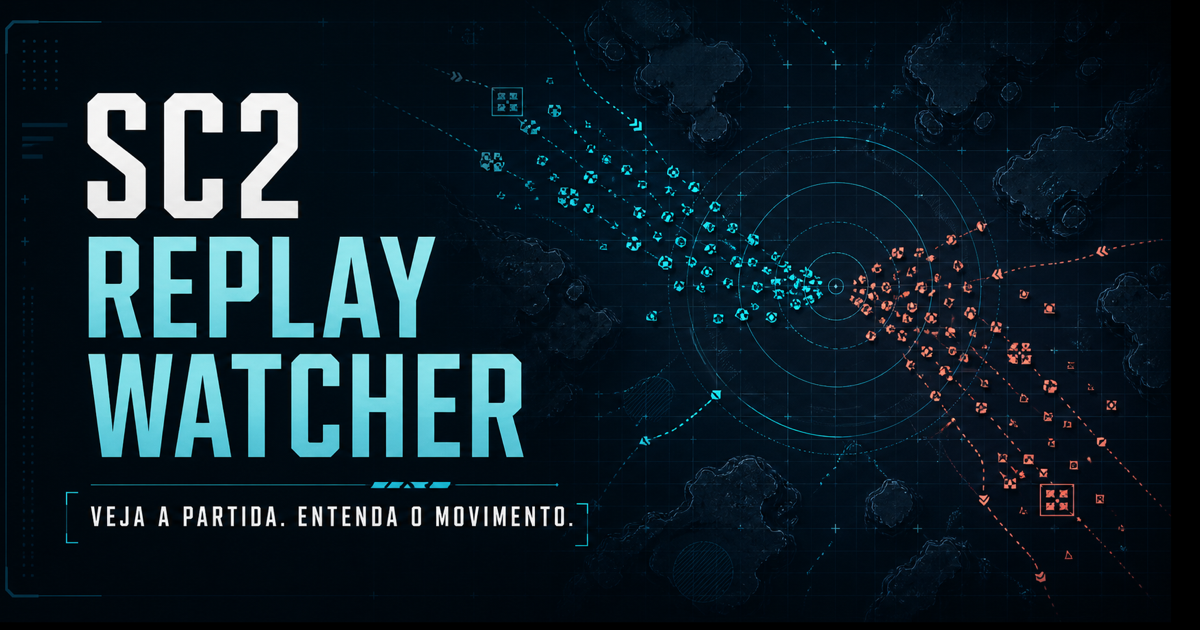
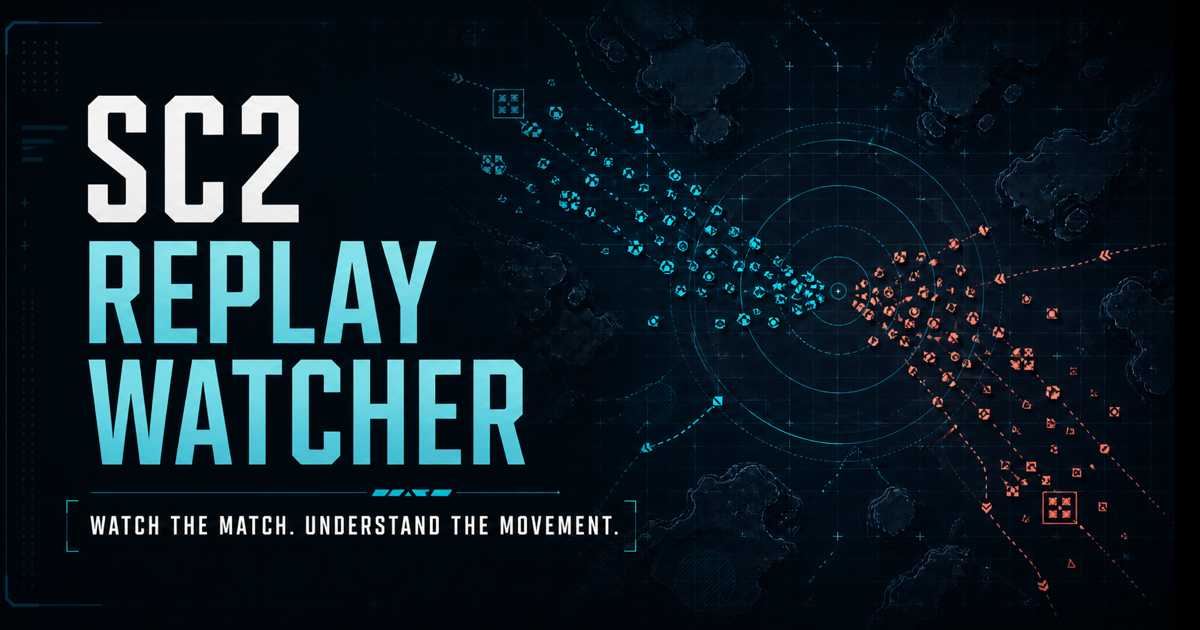
docs: standardize repository content in English

diff --git a/frontend/src/app/layout.tsx b/frontend/src/app/layout.tsx
@@ -10,24 +10,24 @@ const geistMono = Geist_Mono({ variable: "--font-geist-mono", subsets: ["latin"]
 export const metadata: Metadata = {
   metadataBase: new URL(process.env.NEXT_PUBLIC_APP_URL ?? "http://localhost:3000"),
   title: "SC2 Replay Watcher",
-  description: "Visualize replays de StarCraft II em um mapa tático 2D.",
+  description: "Explore StarCraft II replays on an interactive 2D tactical map.",
   icons: {
     icon: [{ url: "/favicon.svg", type: "image/svg+xml" }],
     shortcut: "/favicon.svg",
   },
   openGraph: {
     title: "SC2 Replay Watcher",
-    description: "Veja a partida. Entenda o movimento.",
-    images: [{ url: "/og.png", width: 1200, height: 630, alt: "SC2 Replay Watcher — mapa tático 2D" }],
+    description: "Watch the match. Understand the movement.",
+    images: [{ url: "/og.png", width: 1200, height: 630, alt: "SC2 Replay Watcher — 2D tactical map" }],
   },
   twitter: {
     card: "summary_large_image",
     title: "SC2 Replay Watcher",
-    description: "Veja a partida. Entenda o movimento.",
+    description: "Watch the match. Understand the movement.",
     images: ["/og.png"],
   },
 };
 
 export default function RootLayout({ children }: Readonly<{ children: React.ReactNode }>) {
-  return <html lang="pt-BR"><body className={`${geistSans.variable} ${geistMono.variable}`}><I18nProvider><ReplayProvider>{children}</ReplayProvider></I18nProvider></body></html>;
+  return <html lang="en"><body className={`${geistSans.variable} ${geistMono.variable}`}><I18nProvider><ReplayProvider>{children}</ReplayProvider></I18nProvider></body></html>;
 }

diff --git a/frontend/src/components/site-chrome.tsx b/frontend/src/components/site-chrome.tsx
@@ -10,12 +10,12 @@ export function SiteHeader({ compact = false }: { compact?: boolean }) {
 
   return (
     <header className="topbar">
-      <Link className="brand" href="/" aria-label="SC2 Replay Watcher — início">
+      <Link className="brand" href="/" aria-label="SC2 Replay Watcher — home">
         <span className="brand-mark"><Swords size={18} /></span>
         <span><strong>SC2</strong> Replay Watcher</span>
         <span className="beta">ALPHA</span>
       </Link>
-      <nav className="top-actions" aria-label="Links do projeto">
+      <nav className="top-actions" aria-label="Project links">
         {compact && <Link className="new-replay-link" href="/">{t("header.newReplay")}</Link>}
         <div className="locale-switch" aria-label="Language"><Globe2 size={14} /><button className={locale === "pt" ? "active" : ""} onClick={() => setLocale("pt")} aria-pressed={locale === "pt"}>PT</button><span>/</span><button className={locale === "en" ? "active" : ""} onClick={() => setLocale("en")} aria-pressed={locale === "en"}>EN</button></div>
       </nav>

diff --git a/frontend/src/components/i18n.tsx b/frontend/src/components/i18n.tsx
@@ -555,7 +555,7 @@ type I18nContextValue = {
 const I18nContext = createContext<I18nContextValue | null>(null);
 
 export function I18nProvider({ children }: { children: React.ReactNode }) {
-  const [locale, setLocaleState] = useState<Locale>("pt");
+  const [locale, setLocaleState] = useState<Locale>("en");
 
   useEffect(() => {
     const saved = window.localStorage.getItem("sc2rw-locale");

diff --git a/frontend/src/app/watcher/page.tsx b/frontend/src/app/watcher/page.tsx
@@ -4,7 +4,7 @@ import { ReplayViewer } from "@/components/replay-viewer";
 
 export const metadata: Metadata = {
   title: "Replay Watcher · SC2 Replay Watcher",
-  description: "Explore o estado da partida em um mapa tático 2D.",
+  description: "Explore match state on an interactive 2D tactical map.",
 };
 
 export default function WatcherPage() {

diff --git a/backend/app/main.py b/backend/app/main.py
@@ -148,7 +148,7 @@ def demo_replay() -> dict:
         return _demo_replay()
     except Exception as exc:
         raise HTTPException(
-            status_code=503, detail="O replay de demonstração não está disponível."
+            status_code=503, detail="The demo replay is unavailable."
         ) from exc
 
 
@@ -162,7 +162,7 @@ async def upload_replay(
             request, filename=filename, size=0, digest=None, result="rejected_extension"
         )
         raise HTTPException(
-            status_code=415, detail="Envie um arquivo .SC2Replay válido."
+            status_code=415, detail="Upload a valid .SC2Replay file."
         )
 
     content = await file.read(MAX_REPLAY_SIZE + 1)
@@ -175,7 +175,7 @@ async def upload_replay(
             result="rejected_size",
         )
         raise HTTPException(
-            status_code=413, detail="O replay excede o limite de 50 MB."
+            status_code=413, detail="The replay exceeds the 50 MB limit."
         )
 
     digest = sha256(content).hexdigest()
@@ -223,7 +223,7 @@ async def upload_replay(
         )
         raise HTTPException(
             status_code=422,
-            detail="Apenas replays 1v1 são suportados no momento.",
+            detail="Only 1v1 replays are currently supported.",
         ) from exc
     except Exception as exc:
         _record_upload(
@@ -235,7 +235,7 @@ async def upload_replay(
         )
         raise HTTPException(
             status_code=422,
-            detail="Não foi possível interpretar este replay. Ele pode estar corrompido ou usar uma versão ainda não suportada.",
+            detail="The replay could not be parsed. It may be corrupted or use an unsupported version.",
         ) from exc
     finally:
         if temp_path:
@@ -251,7 +251,7 @@ async def replay_win_probability(analysis_id: str) -> dict:
             return cached
     replay = _replay_for_analysis(analysis_id)
     if replay is None:
-        raise HTTPException(status_code=404, detail="O replay não está mais no cache.")
+        raise HTTPException(status_code=404, detail="The replay is no longer cached.")
     try:
         result = await run_in_threadpool(
             build_win_probability_series, replay, analysis_id

diff --git a/backend/tests/test_api.py b/backend/tests/test_api.py
@@ -75,7 +75,7 @@ def test_rejects_non_1v1_with_clear_message(monkeypatch) -> None:
 
     assert response.status_code == 422
     assert response.json() == {
-        "detail": "Apenas replays 1v1 são suportados no momento."
+        "detail": "Only 1v1 replays are currently supported."
     }
 
 

diff --git a/README.md b/README.md
@@ -1,13 +1,15 @@
 # SC2 Replay Watcher
 
-MVP full-stack que transforma arquivos `.SC2Replay` em uma visualização tática 2D. O frontend oferece upload, reprodução da linha do tempo e inspeção das unidades; o backend compila o replay em estados do mundo com a `sc2_world_engine`.
+A full-stack MVP that transforms `.SC2Replay` files into an interactive 2D tactical view. The
+frontend handles uploads, timeline playback, and unit inspection; the backend compiles replays into
+world states with `sc2_world_engine`.
 
 ## Stack
 
 - Frontend: Next.js, React, TypeScript, Tailwind CSS
 - Backend: Python, FastAPI, `sc2_world_engine`
 
-## Rodando localmente
+## Local development
 
 ### Backend
 
@@ -19,7 +21,8 @@ pip install -r requirements.txt
 uvicorn app.main:app --reload --port 8010
 ```
 
-A API fica em `http://localhost:8010` e a documentação em `http://localhost:8010/docs`.
+The API runs at `http://localhost:8010`, with interactive documentation at
+`http://localhost:8010/docs`.
 
 ### Frontend
 
@@ -30,22 +33,28 @@ npm install
 npm run dev
 ```
 
-Abra `http://localhost:3000`. A página inicial envia o replay ao FastAPI, que o compila com o projeto independente `../sc2_world_engine`. O backend adapta o `.sc2world` validado para o contrato do watcher; o frontend apenas reproduz e renderiza os estados recebidos. Depois do processamento, o app navega para `/watcher`, onde ficam mapa, timeline e controles.
+Open `http://localhost:3000`. The home page sends the replay to FastAPI, which compiles it with the
+versioned `sc2_world_engine` dependency. The backend adapts the validated `.sc2world` archive to the
+watcher contract; the frontend only plays and renders the resulting states. After processing, the
+app navigates to `/watcher`, which contains the map, timeline, and playback controls.
 
-A interface está disponível em português e inglês. O seletor `PT / EN` fica no cabeçalho e salva a preferência no navegador.
+The interface is available in English and Portuguese. The `PT / EN` selector is in the header and
+stores the selected language in the browser.
 
-## Camada de apresentação do SC2
+## StarCraft II presentation layer
 
-Nomes, aliases, estados e papéis visuais de unidades, estruturas e upgrades ficam centralizados em
-`frontend/src/lib/sc2-catalog.ts`. A UI nunca deve traduzir identificadores do replay diretamente:
+Unit, structure, and upgrade names, aliases, states, and visual roles are centralized in
+`frontend/src/lib/sc2-catalog.ts`. UI code must not translate raw replay identifiers directly:
 
-- `sc2Name` fornece o nome localizado e mantém fallback legível para conteúdo futuro;
-- `canonicalSc2Type` agrupa formas transitórias na composição (enterrado, voando, modo de cerco);
-- `sc2StateName` preserva essa forma como detalhe no inspector e no hover;
-- `sc2IconKey` garante a mesma silhueta tática no mapa, HUD, produção e drawer responsivo.
+- `sc2Name` provides localized names with a readable fallback for future content;
+- `canonicalSc2Type` groups transient forms in composition views, such as burrowed, flying, and
+  siege-mode variants;
+- `sc2StateName` preserves the transient form as a detail in inspectors and hover states;
+- `sc2IconKey` keeps tactical silhouettes consistent across the map, HUD, production views, and
+  responsive drawer.
 
-Ao incluir uma entidade, adicione o alias ao catálogo e um caso em `sc2-catalog.test.ts`. Para validar
-frontend, catálogo e build de produção:
+When adding an entity, add its alias to the catalog and a case to `sc2-catalog.test.ts`. Validate
+the frontend, catalog, and production build with:
 
 ```bash
 cd frontend
@@ -54,55 +63,60 @@ npm run lint
 npm run build
 ```
 
-Métricas reconstruídas ou inferidas precisam ser descritas como tal nos tooltips. Não apresente vida,
-escudo ou outro estado que o replay não registre como se fosse telemetria factual.
+Metrics that are reconstructed or inferred must be labeled accordingly in tooltips. Do not present
+health, shields, or any state absent from the replay as factual telemetry.
 
-## Replay de exemplo
+## Sample replay
 
-Use `samples/HSC-XXIX-Grand-Final-G4-2026.SC2Replay`. É o jogo 4 da Grand Final da HomeStory Cup XXIX: Serral vs Clem, uma partida de 34:24 jogada na versão 5.0.16.97425. A origem, os detalhes e o checksum estão documentados em `samples/README.md`.
+Use `samples/HSC-XXIX-Grand-Final-G4-2026.SC2Replay`. It is game 4 of the HomeStory Cup XXIX Grand
+Final between Serral and Clem, a 34:24 match played on version 5.0.16.97425. Provenance, match
+details, and the checksum are documented in `samples/README.md`.
 
-## Limitações atuais
+## Current limitations
 
-O formato de replay registra apenas amostras de posição em determinados eventos. Por isso, o movimento entre amostras é uma aproximação visual marcada como `estimated`, não uma reconstrução exata do motor do jogo. Terreno, visão e física detalhada ficam fora do escopo atual.
+The replay format records position samples only for certain events. Movement between samples is
+therefore a visual approximation marked as `estimated`, not an exact reconstruction of the
+StarCraft II simulation. Detailed terrain rendering, vision, and physics remain out of scope.
 
-O watcher exibe supply, banco, composição e valor do exército, renda, deltas entre jogadores,
-perdas, produção e build path sincronizado. A timeline separa tech, macro, movimentos e combates,
-mostra intervalos de supply block/confronto e plota o histórico da vantagem militar. Confrontos são
-clicáveis e abrem perdas de mineral, gás, supply, unidades e eficiência estimada da troca.
+The watcher displays supply, bank, composition, army value, income, player deltas, losses,
+production, and synchronized build paths. The timeline separates technology, macro, movement, and
+combat events; shows supply-block and engagement intervals; and plots military-advantage history.
+Engagements are interactive and expose mineral, gas, supply, and unit losses alongside estimated
+trade efficiency.
 
-O mapa possui filtros de camadas, zoom/pan, agrupamento semântico de exércitos, bases, atividade de
-combate, destinos e confiança das posições. As câmeras podem ser isoladas por jogador e, quando a
-camada está ativa, o HUD mostra ritmo derivado de atenção sem tratá-lo como APM.
+The map supports layer filters, zoom and pan, semantic grouping of armies and bases, combat
+activity, movement destinations, and position confidence. Player cameras can be isolated. When the
+camera layer is active, the HUD shows a derived attention rhythm without presenting it as APM.
 
-Atalhos do watcher:
+Watcher shortcuts:
 
-- `Space`: play/pause;
-- `←` / `→`: voltar/avançar 5 segundos;
-- `Shift` + `←` / `→`: voltar/avançar 1 segundo;
-- `[` / `]`: evento analítico relevante anterior/seguinte;
-- `Home` / `End`: início/fim do replay;
-- `Escape`: fechar o inspector.
+- `Space`: play or pause;
+- `←` / `→`: move backward or forward 5 seconds;
+- `Shift` + `←` / `→`: move backward or forward 1 second;
+- `[` / `]`: jump to the previous or next relevant analytical event;
+- `Home` / `End`: jump to the beginning or end of the replay;
+- `Escape`: close the inspector.
 
-Uploads repetidos com o mesmo conteúdo reutilizam um cache LRU pequeno identificado pelo SHA-256;
-a compilação pesada roda fora do event loop da API.
+Repeated uploads with identical content reuse a small SHA-256-keyed LRU cache. Heavy compilation
+runs outside the API event loop.
 
-Quando a referência `.s2ma` do replay está disponível no depot da Blizzard, a world engine monta um
-bootstrap estático com níveis do terreno, cliffs, rampas e bloqueios destrutíveis. O watcher desenha
-essa geometria antes do frame zero e usa o minimapa oficial apenas como asset de referência. Se o mapa
-não estiver disponível ou o download falhar, a resposta usa o cenário procedural sem interromper a
-leitura do replay.
+When a replay contains an available `.s2ma` depot reference, the world engine builds a static
+bootstrap containing terrain levels, cliffs, ramps, and destructible blockers. The watcher renders
+this geometry before frame zero and uses the official minimap only as a reference asset. If the map
+is unavailable or the download fails, the response falls back to a procedural scene without
+interrupting replay playback.
 
-Quando essas camadas estão presentes, movimentos terrestres estimados usam uma malha caminhável com
-clearance e corredores A* compartilhados por comando. Unidades voadoras continuam em linha direta e
-posições registradas pelo tracker nunca são substituídas pelo pathfinder.
+When these terrain layers are present, estimated ground movement uses a walkable mesh with
+clearance and shared A* corridors. Flying units continue in straight lines, and the pathfinder never
+replaces tracker-recorded positions.
 
-As câmeras dos jogadores usam as amostras originais de `CameraEvent`: o watcher mantém a última
-posição registrada até a próxima amostra e nunca interpola coordenadas entre dois eventos.
+Player cameras use the original `CameraEvent` samples. The watcher holds the latest recorded
+position until the next sample and never interpolates coordinates between camera events.
 
 ## License
 
 Source-available under the [PolyForm Noncommercial License 1.0.0](LICENSE).
-Noncommercial research, education, personal study and hobby use are permitted. Commercial use is
+Noncommercial research, education, personal study, and hobby use are permitted. Commercial use is
 not permitted without a separate license from the copyright holder.
 
 The bundled replay fixture is third-party material and is not licensed under PolyForm. See

diff --git a/samples/README.md b/samples/README.md
@@ -1,21 +1,21 @@
-# Replay de exemplo
+# Sample replay
 
-## Serral vs Clem — HomeStory Cup XXIX Grand Final, jogo 4
+## Serral vs. Clem — HomeStory Cup XXIX Grand Final, game 4
 
-- Arquivo: `HSC-XXIX-Grand-Final-G4-2026.SC2Replay`
-- Replay pack: [HomeStory Cup XXIX no Google Drive](https://drive.google.com/drive/folders/1AV7QLHuVAK5TIueWD_wPnf-LlzqNNgpm)
-- Divulgação do pack: [r/starcraft](https://www.reddit.com/r/starcraft/comments/1urll2k/homestory_cup_xxix_july5_replay_pack_released/)
-- Evento: HomeStory Cup XXIX, listado como S-Tier pela Liquipedia
-- Fase: Grand Final, jogo 4
-- Partida: liquidclem (Terran) vs Serral (Zerg)
-- Mapa: Rainfall LE
-- Duração: 34:24
-- Data: 5 de julho de 2026
-- Versão: 5.0.16.97425
-- Vencedor: Serral
-- Eventos interpretados: 14.551
+- File: `HSC-XXIX-Grand-Final-G4-2026.SC2Replay`
+- Replay pack: [HomeStory Cup XXIX on Google Drive](https://drive.google.com/drive/folders/1AV7QLHuVAK5TIueWD_wPnf-LlzqNNgpm)
+- Pack announcement: [r/starcraft](https://www.reddit.com/r/starcraft/comments/1urll2k/homestory_cup_xxix_july5_replay_pack_released/)
+- Event: HomeStory Cup XXIX, listed as S-Tier by Liquipedia
+- Stage: Grand Final, game 4
+- Match: liquidclem (Terran) vs. Serral (Zerg)
+- Map: Rainfall LE
+- Duration: 34:24
+- Date: July 5, 2026
+- Version: 5.0.16.97425
+- Winner: Serral
+- Parsed events: 14,551
[1 lines of base64/hex data omitted]
 
-O arquivo vem do replay pack público da competição e está incluído somente como fixture de
-desenvolvimento e teste. Ele é material de terceiros, permanece sujeito aos direitos de seus
-respectivos titulares e não é sublicenciado pela licença do código deste repositório.
+The file comes from the tournament's publicly released replay pack and is included only as a
+development and testing fixture. It is third-party material, remains subject to the rights of its
+respective rightsholders, and is not sublicensed under this repository's source-code license.
